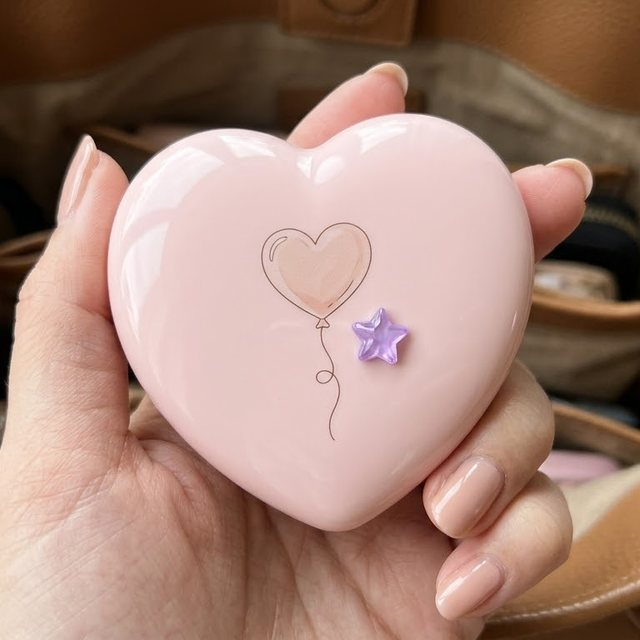
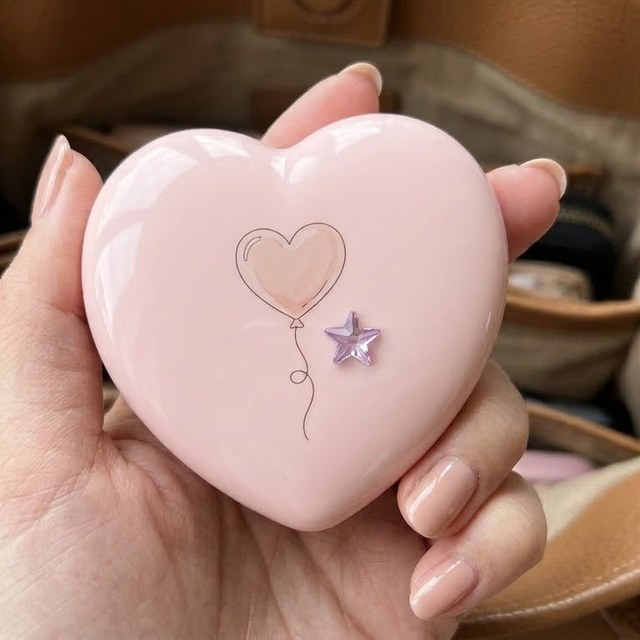
Make rhinestones look attached instead of floating
- Add a thin contact shadow under cubic items, scaled to the case size and
  counter-rotated so it always falls downward; the saved PNG uses the same values
- Default cubic size 12% -> 9% so it balances with stickers
- Replace review photos 2, 3, 4, 8 with versions where the rhinestones sit
  flush on the lid (cropped to 640x640, watermark removed)
- Record the change in docs/interaction-list.md

Applies to desktop and mobile.

diff --git a/src/components/CaseView.jsx b/src/components/CaseView.jsx
@@ -1,6 +1,6 @@
 // 꾸민 케이스 그리기 (P03 캔버스, P04·P06·P07 이미지, M07 미리보기에서 공통으로 사용)
 // 흰색 케이스 이미지 1장 위에 케이스 색을 곱하기(multiply)로 입히고, 그 위에 스티커·큐빅·각인을 올린다.
-import { getCaseColor, getCaseType, getEngraveStyle, getSticker } from '../data/catalog';
+import { CUBIC_SHADOW, getCaseColor, getCaseType, getEngraveStyle, getSticker } from '../data/catalog';
 import './CaseView.css';
 
 export function CaseArt({ type, color, size }) {
@@ -42,7 +42,19 @@ export function ItemView({ item, size, placeholder = '각인 입력' }) {
   }
   const st = getSticker(item.ref);
   if (!st) return null; // 예전에 쓰던(지금은 없는) 스티커는 그리지 않음
-  return <img className="case-sticker" src={st.src} alt="" draggable={false} style={{ width: item.w * size }} />;
+  // 큐빅: 케이스에 붙어 있게 보이도록 얇은 접지 그림자 (케이스 크기에 비례, 저장 이미지 exportImage.js와 같은 값)
+  // 그림자는 큐빅과 함께 회전하므로, 회전만큼 거꾸로 돌려 항상 화면 아래쪽으로 떨어지게 함
+  let shadow;
+  if (item.kind === 'cubic') {
+    const r = ((item.rot || 0) * Math.PI) / 180;
+    const d = size * CUBIC_SHADOW.y;
+    const dx = (d * Math.sin(r)).toFixed(2);
+    const dy = (d * Math.cos(r)).toFixed(2);
+    shadow = `drop-shadow(${dx}px ${dy}px ${(size * CUBIC_SHADOW.blur).toFixed(2)}px ${CUBIC_SHADOW.color})`;
+  }
+  return (
+    <img className="case-sticker" src={st.src} alt="" draggable={false} style={{ width: item.w * size, filter: shadow }} />
+  );
 }
 
 export const itemStyle = (item, size) => ({

diff --git a/src/utils/exportImage.js b/src/utils/exportImage.js
@@ -1,5 +1,5 @@
 // 꾸민 케이스를 PNG 이미지로 만들어 내려받기 (P06 이미지 저장하기)
-import { getCaseColor, getCaseType, getEngraveStyle, getSticker } from '../data/catalog';
+import { CUBIC_SHADOW, getCaseColor, getCaseType, getEngraveStyle, getSticker } from '../data/catalog';
 
 const loadImage = (src) =>
   new Promise((resolve, reject) => {
@@ -64,6 +64,12 @@ export async function renderDesign(design, size = 1000) {
         const img = await loadImage(st.src);
         const w = it.w * box;
         const h = (w * img.height) / img.width;
+        if (it.kind === 'cubic') {
+          // 큐빅 접지 그림자 (화면 CaseView와 같은 값). 캔버스 그림자는 회전과 상관없이 항상 아래로 떨어짐
+          ctx.shadowColor = CUBIC_SHADOW.color;
+          ctx.shadowBlur = box * CUBIC_SHADOW.blur;
+          ctx.shadowOffsetY = box * CUBIC_SHADOW.y;
+        }
         ctx.drawImage(img, -w / 2, -h / 2, w, h);
       }
     }

diff --git a/src/data/catalog.js b/src/data/catalog.js
@@ -140,6 +140,9 @@ export const getSticker = (id) => {
   return (STICKERS[kind] || []).find((s) => s.id === id);
 };
 
+// 큐빅 접지 그림자 (케이스 크기 대비 비율): 아래로 살짝, 짧고 부드럽게 → 표면에 붙어 있는 느낌
+export const CUBIC_SHADOW = { y: 0.0045, blur: 0.01, color: 'rgba(90, 50, 40, 0.35)' };
+
 export const KIND_LABEL = {
   cubic: '큐빅',
   sticker: '스티커',

diff --git a/src/pages/CustomizePage.jsx b/src/pages/CustomizePage.jsx
@@ -47,7 +47,7 @@ const TOOLS = [
 ];
 
 // 처음 붙일 때 크기 (케이스 크기 대비 비율)
-const DEFAULT_W = { cubic: 0.12, sticker: 0.2 };
+const DEFAULT_W = { cubic: 0.09, sticker: 0.2 }; // 큐빅은 혼자 커 보이지 않게 9%
 const DEFAULT_FS = 0.075;
 const MIN_W = 0.05;
 const MAX_W = 0.7;
